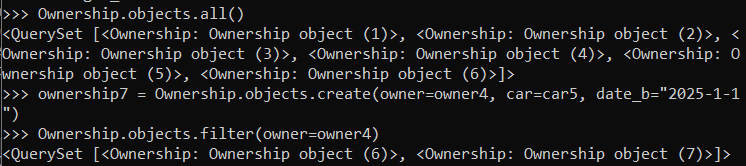
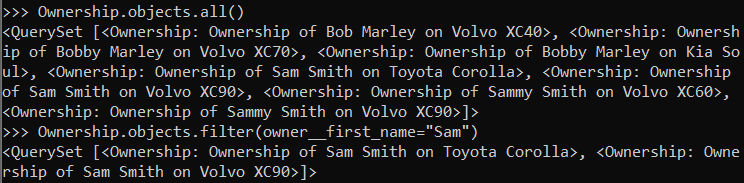
lab 3: refactor for lab4

diff --git a/students/k3344/Samoilenko_Eva/Lr2/hotel_web_project/templates/hotel/hotels_list.html b/students/k3344/Samoilenko_Eva/Lr2/hotel_web_project/templates/hotel/hotels_list.html
@@ -1,6 +1,6 @@
 {% extends 'base.html' %}
 
-{% block title %}Hotel List{% endblock %}
+{#{% block title %}Hotel List{% endblock %}#}
 
 {% block content %}
 

diff --git a/students/k3344/Samoilenko_Eva/Lr3/hotel_project/hotel_app/views.py b/students/k3344/Samoilenko_Eva/Lr3/hotel_project/hotel_app/views.py
@@ -15,7 +15,7 @@ class RoomsAPIView(APIView):
     def get(self, request):
         rooms = Room.objects.all()
         serializer = RoomSerializer(rooms, many=True)
-        return Response({'List of Hotel Rooms': serializer.data})
+        return Response(serializer.data)
 
     @swagger_auto_schema(request_body=RoomCreateSerializer)
     def post(self, request):
@@ -32,7 +32,7 @@ class RoomAPIView(APIView):
         try:
             room = Room.objects.get(id=room_id)
             serializer = RoomSerializer(room)
-            return Response({f'{room.__str__()}': serializer.data})
+            return Response(serializer.data)
         except Room.DoesNotExist:
             return Response({"Not Found": "Room not found"}, status=status.HTTP_404_NOT_FOUND)
 
@@ -65,7 +65,7 @@ class EmployeesAPIView(APIView):
     def get(self, request):
         employees = Employee.objects.all()
         serializer = EmployeeSerializer(employees, many=True)
-        return Response({'List of all hired Employees': serializer.data})
+        return Response(serializer.data)
 
     @swagger_auto_schema(request_body=EmployeeCreateSerializer)
     def post(self, request):
@@ -83,7 +83,7 @@ class EmployeeAPIView(APIView):
         try:
             employee = Employee.objects.get(id=employee_id)
             serializer = EmployeeCreateSerializer(employee)
-            return Response({f'{employee.__str__()}': serializer.data})
+            return Response(serializer.data)
         except Employee.DoesNotExist:
             return Response({"Not Found": "Employee not found"}, status=status.HTTP_404_NOT_FOUND)
 
@@ -117,7 +117,7 @@ class ClientsAPIView(APIView):
     def get(self, request):
         clients = Client.objects.all()
         serializer = ClientSerializer(clients, many=True)
-        return Response({'List of all existing Clients': serializer.data})
+        return Response(serializer.data)
 
     @swagger_auto_schema(request_body=ClientCreateSerializer)
     def post(self, request):
@@ -135,7 +135,7 @@ class ClientAPIView(APIView):
         try:
             client = Client.objects.get(id=client_id)
             serializer = ClientSerializer(client)
-            return Response({f'{client.__str__()}': serializer.data})
+            return Response(serializer.data)
         except Client.DoesNotExist:
             return Response({"Not Found": "Client not found"}, status=status.HTTP_404_NOT_FOUND)
 
@@ -169,7 +169,7 @@ class BookingsAPIView(APIView):
     def get(self, request):
         bookings = Booking.objects.all()
         serializer = BookingSerializer(bookings, many=True)
-        return Response({'List of all Bookings': serializer.data})
+        return Response(serializer.data)
 
     @swagger_auto_schema(request_body=BookingCreateSerializer)
     def post(self, request):
@@ -187,7 +187,7 @@ class BookingAPIView(APIView):
         try:
             booking = Booking.objects.get(id=booking_id)
             serializer = BookingSerializer(booking)
-            return Response({f'{booking.__str__()}': serializer.data})
+            return Response(serializer.data)
         except Booking.DoesNotExist:
             return Response({"Not Found": "Booking not found"}, status=status.HTTP_404_NOT_FOUND)
 
@@ -221,7 +221,7 @@ class CleaningsAPIView(APIView):
     def get(self, request):
         cleanings = Cleaning.objects.all()
         serializer = CleaningSerializer(cleanings, many=True)
-        return Response({'List of all Cleanings': serializer.data})
+        return Response(serializer.data)
 
     @swagger_auto_schema(request_body=CleaningCreateSerializer)
     def post(self, request):
@@ -239,7 +239,7 @@ class CleaningAPIView(APIView):
         try:
             cleaning = Cleaning.objects.get(id=cleaning_id)
             serializer = CleaningSerializer(cleaning)
-            return Response({f'{cleaning.__str__()}': serializer.data})
+            return Response(serializer.data)
         except Cleaning.DoesNotExist:
             return Response({"Not Found": "Cleaning not found"}, status=status.HTTP_404_NOT_FOUND)
 
@@ -458,5 +458,4 @@ class QuarterReportAPIView(APIView):
         # суммарный доход по всей гостинице
         response['Full Hotel Income'] = hotel_income
 
-        return Response({f'Quarter report for {requested_quarter} quarter': response},
-                        status=status.HTTP_200_OK)
+        return Response(response, status=status.HTTP_200_OK)

diff --git a/students/k3344/Samoilenko_Eva/practical_works/Samoilenko_Eva/simple_django_web_project/project_first_app/models.py b/students/k3344/Samoilenko_Eva/practical_works/Samoilenko_Eva/simple_django_web_project/project_first_app/models.py
@@ -9,6 +9,9 @@ class Car(models.Model):
     model = models.CharField(max_length=20)
     color = models.CharField(max_length=30, null=True, blank=True)
 
+    def __str__(self):
+        return f'{self.brand} {self.model}'
+
 
 # class Owner(models.Model):
 class Owner(AbstractUser):
@@ -20,6 +23,9 @@ class Owner(AbstractUser):
     nationality = models.CharField(max_length=30, default="", blank=True, null=True)
     cars = models.ManyToManyField(Car, through='Ownership')
 
+    def __str__(self):
+        return f'{self.first_name} {self.last_name}'
+
 
 class License(models.Model):
     owner = models.ForeignKey(settings.AUTH_USER_MODEL, related_name="license_owner",
@@ -29,6 +35,9 @@ class License(models.Model):
     type = models.CharField(max_length=10)
     date = models.DateField()
 
+    def __str__(self):
+        return f'License of {self.owner.__str__()}, number {self.number}'
+
 
 class Ownership(models.Model):
     owner = models.ForeignKey(settings.AUTH_USER_MODEL, related_name="car_owner",
@@ -36,3 +45,6 @@ class Ownership(models.Model):
     car = models.ForeignKey(Car, related_name="car", on_delete=models.CASCADE)
     date_b = models.DateField()
     date_e = models.DateField(null=True, blank=True)
+
+    def __str__(self):
+        return f'Ownership of {self.owner.__str__()} on {self.car.__str__()}'

diff --git a/students/k3344/Samoilenko_Eva/Lr3/hotel_project/hotel_app/serializers.py b/students/k3344/Samoilenko_Eva/Lr3/hotel_project/hotel_app/serializers.py
@@ -23,7 +23,7 @@ class ClientReportSerializer(serializers.ModelSerializer):
 class EmployeeSerializer(serializers.ModelSerializer):
     class Meta:
         model = Employee
-        fields = ['id', 'first_name', 'last_name']
+        fields = ['id', 'first_name', 'last_name', 'father_name']
 
 
 class EmployeeCreateSerializer(serializers.ModelSerializer):
@@ -35,7 +35,7 @@ class EmployeeCreateSerializer(serializers.ModelSerializer):
 class RoomSerializer(serializers.ModelSerializer):
     class Meta:
         model = Room
-        fields = ['room_type', 'price', 'floor_num', 'phone_num']
+        fields = ['id', 'room_type', 'price', 'floor_num', 'phone_num']
 
 
 class RoomCreateSerializer(serializers.ModelSerializer):

diff --git a/students/k3344/Samoilenko_Eva/Lr3/hotel_project/hotel_project/settings.py b/students/k3344/Samoilenko_Eva/Lr3/hotel_project/hotel_project/settings.py
@@ -42,9 +42,11 @@ INSTALLED_APPS = [
     'hotel_app',
     'drf_yasg',
     'djoser',
+    'corsheaders',
 ]
 
 MIDDLEWARE = [
+    'corsheaders.middleware.CorsMiddleware',
     'django.middleware.security.SecurityMiddleware',
     'django.contrib.sessions.middleware.SessionMiddleware',
     'django.middleware.common.CommonMiddleware',
@@ -121,6 +123,7 @@ USE_I18N = True
 
 USE_TZ = True
 
+CORS_ORIGIN_ALLOW_ALL = True
 
 # Static files (CSS, JavaScript, Images)
 # https://docs.djangoproject.com/en/5.1/howto/static-files/

diff --git a/students/k3344/Samoilenko_Eva/Documentation/docs/index.md b/students/k3344/Samoilenko_Eva/Documentation/docs/index.md
@@ -20,3 +20,7 @@
 
 - [Практическое задание 3.1](http://127.0.0.1:8000/lab3/CarOwnerships)
 - [Лабораторная работа](http://127.0.0.1:8000/lab3/hotel/)
+
+## Лабораторная работа №4
+
+- [Hotel Administration](http://127.0.0.1:8000/lab4/hotel/)

diff --git a/students/k3344/Samoilenko_Eva/Documentation/docs/lab3/CarOwnerships.md b/students/k3344/Samoilenko_Eva/Documentation/docs/lab3/CarOwnerships.md
@@ -12,7 +12,7 @@ Windows. Объекты добавлялись с
 
 Создание 6 автомобилей:
 
-![img_1.png](practical_work_imgs/img_1.png) 
+![img_1.png](practical_work_imgs/img_1.png)
 
 Добавление 6 новый автовладельцев:
 

diff --git a/students/k3344/Samoilenko_Eva/Documentation/docs/lab3/hotel.md b/students/k3344/Samoilenko_Eva/Documentation/docs/lab3/hotel.md
@@ -1,4 +1,4 @@
-# Лабораторная работа 3. Реализация серверной части на django rest. Документирование API.
+# Администрирование отеля (Django Rest Framework)
 
 ---
 
